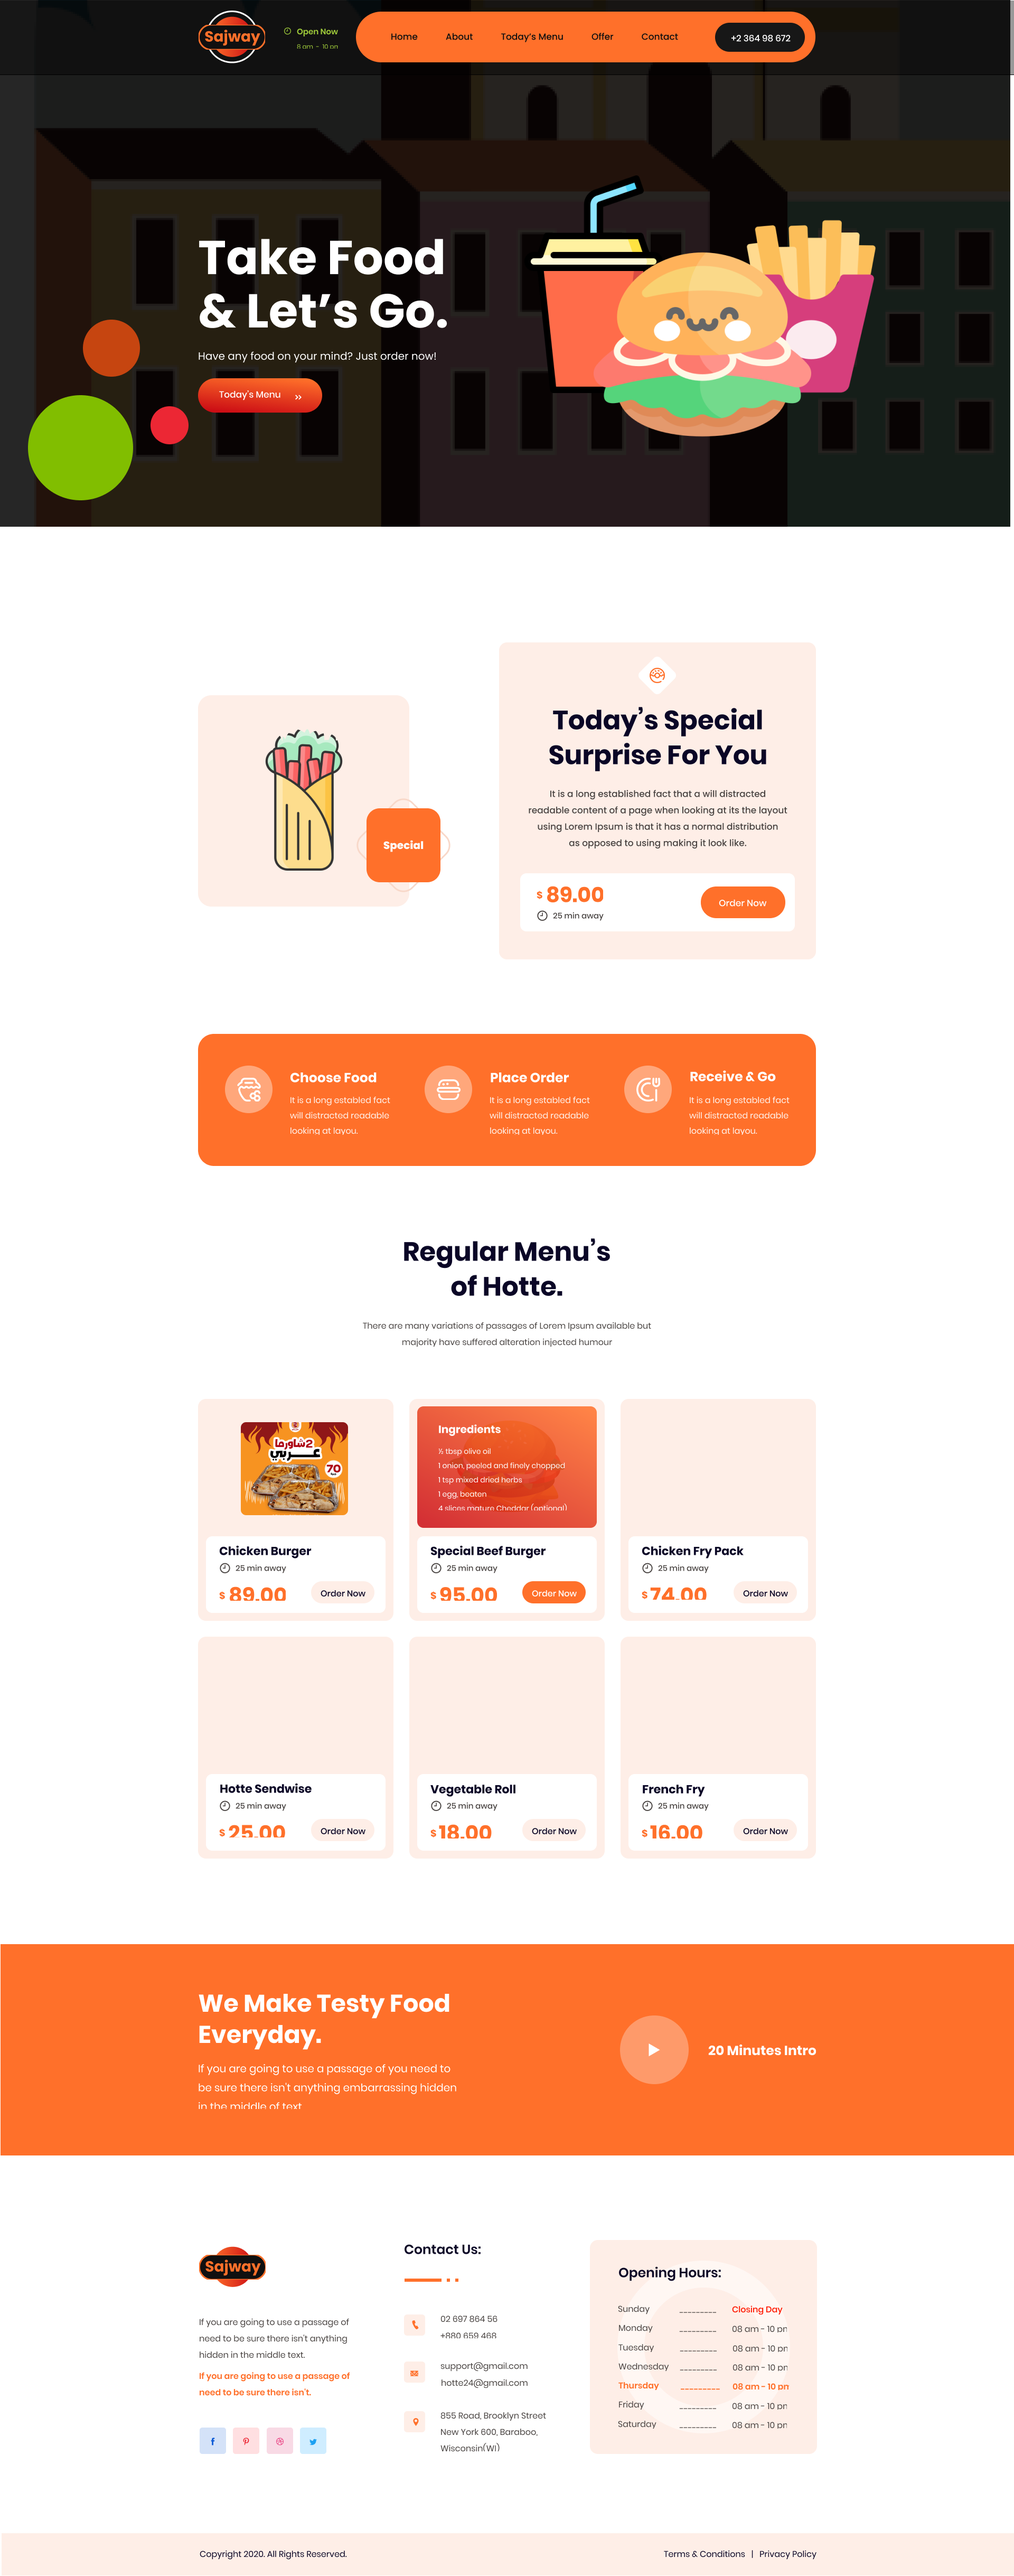
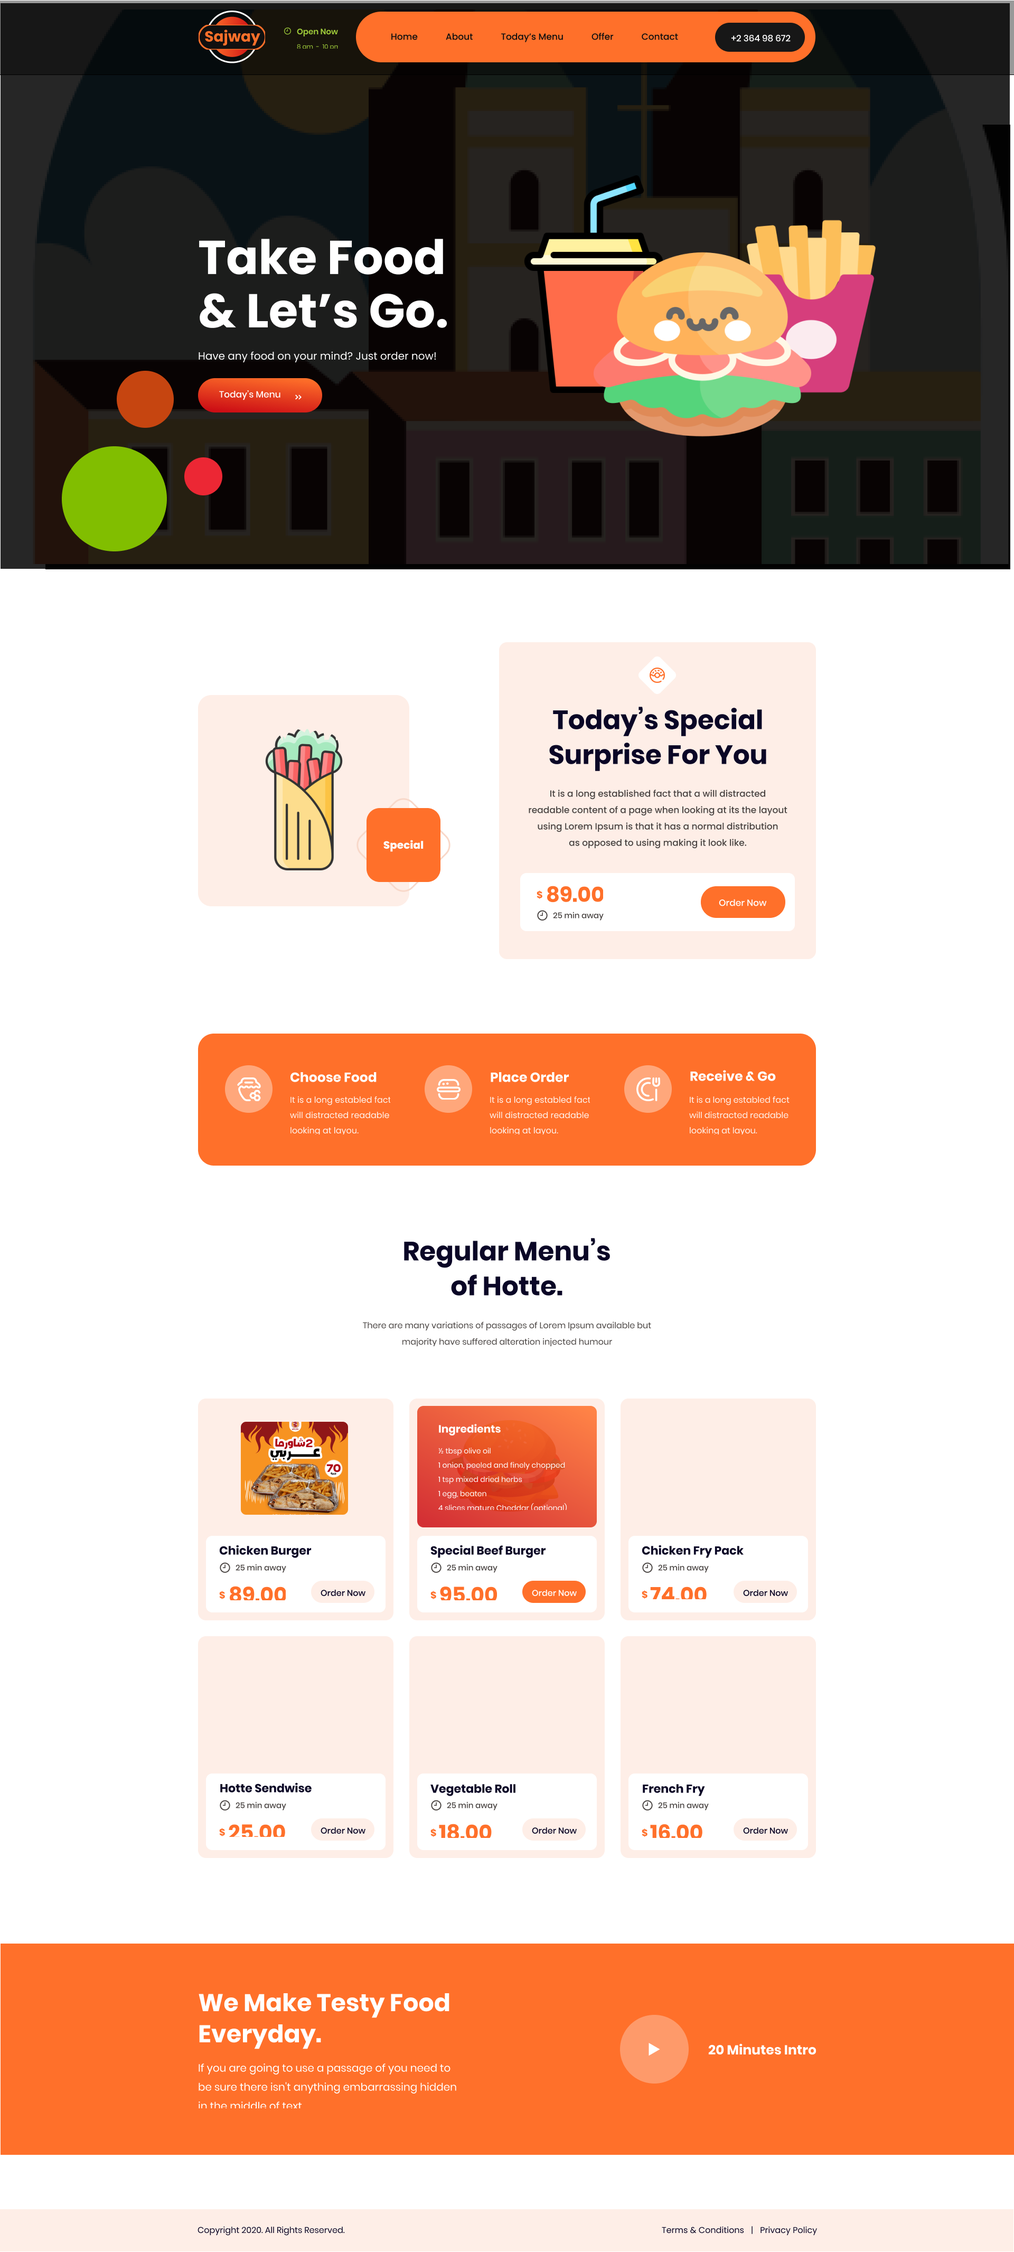
add: Footer and Finishing the Landing Page

diff --git a/src/Components/HomeComponents/Hero.jsx b/src/Components/HomeComponents/Hero.jsx
@@ -8,37 +8,39 @@ import { Link } from 'react-router-dom'
 import HeroIamge from './../../assets/Image.png'
 function Hero () {
   return (
-    <section className='layout h-full w-full'>
-      <div className='container mx-auto grid  xl:grid-cols-2 gap-4 place-items-center text-white w-full h-full'>
-        <div className='ml-4'>
-          <h1 className='font-bold text-6xl mb-2'>
-            Take Food
-            <br /> & Let’s Go.
-          </h1>
-          <p className='text-md mb-2'>
-            Have any food on your mind? Just order now!
-          </p>
+    <div className='home h-screen'>
+      <section className=' layout h-full'>
+        <div className='container mx-auto grid  xl:grid-cols-2 gap-4 place-items-center text-white w-full h-full'>
+          <div className='ml-4'>
+            <h1 className='font-bold text-6xl mb-2'>
+              Take Food
+              <br /> & Let’s Go.
+            </h1>
+            <p className='text-md mb-2'>
+              Have any food on your mind? Just order now!
+            </p>
 
-          <button className='btn gap-2 bg-orange-700 border-none outline-none hover:bg-orange-600 rounded-full px-10'>
-            <Link to='/menus'>
-              <span className='text-xs inline-block'>Today's Menu</span>
-              <img
-                src='https://api.iconify.design/eva:arrowhead-right-outline.svg?color=%23ffffff'
-                alt='ICON'
-                className="inline-block ml-4 w-5 h-5'"
-              />
-            </Link>
-          </button>
+            <button className='btn gap-2 bg-orange-700 border-none outline-none hover:bg-orange-600 rounded-full px-10'>
+              <Link to='/menus'>
+                <span className='text-xs inline-block'>Today's Menu</span>
+                <img
+                  src='https://api.iconify.design/eva:arrowhead-right-outline.svg?color=%23ffffff'
+                  alt='ICON'
+                  className="inline-block ml-4 w-5 h-5'"
+                />
+              </Link>
+            </button>
+          </div>
+          <div className='hidden xl:block'>
+            <img
+              src={HeroIamge}
+              alt='Hero Iamge'
+              className='w-[90%] hover:translate-y-2 ease-in-out duration-300'
+            />
+          </div>
         </div>
-        <div className='hidden xl:block'>
-          <img
-            src={HeroIamge}
-            alt='Hero Iamge'
-            className='w-[90%] hover:translate-y-2 ease-in-out duration-300'
-          />
-        </div>
-      </div>
-    </section>
+      </section>
+    </div>
   )
 }
 

diff --git a/src/Components/HomeComponents/CTA.jsx b/src/Components/HomeComponents/CTA.jsx
@@ -4,13 +4,13 @@ import PlayIcon from './../../assets/playIcon.png'
 
 function CTA () {
   return (
-    <div className='bg-orange-600 phone-6 my-10 py-10 '>
+    <section className='bg-orange-600 phone-6 my-10 py-10 '>
       <div className='container layout mx-auto grid xl:grid-cols-2 place-items-center gap-4 h-full text-white'>
         <div className='flex flex-col'>
           <h1 className='text-3xl font-bold mb-2 text-center xl:text-left'>
             We Make Testy Food <br /> Everyday.
           </h1>
-          <p class='text-md text-center xl:text-left'>
+          <p className='text-md text-center xl:text-left'>
             Lorem ipsum dolor sit amet consectetur adipisicing elit. Dolorum
             eum, laudantium pariatur perferendis consequuntur officiis unde
             error reiciendis iusto nam, similique accusamus totam exercitationem
@@ -20,11 +20,13 @@ function CTA () {
         <div className='flex items-center gap-4'>
           <img src={PlayIcon} alt='ICONS' />
           <p className='text-xl'>
-            <a href='https://www.github.com/abdallahifox' target='_blank'>20 Min Intro .</a>
+            <a href='https://www.github.com/abdallahifox' target='_blank'>
+              20 Min Intro .
+            </a>
           </p>
         </div>
       </div>
-    </div>
+    </section>
   )
 }
 

diff --git a/src/Components/Footer/Footer.jsx b/src/Components/Footer/Footer.jsx
@@ -1,0 +1,27 @@
+import React from 'react'
+
+function Footer () {
+  return (
+    <div className=' pt-10'>
+      <footer className='footer footer-center p-4 bg-orange-300 text-base-content '>
+        <div className='layout container mx-auto flex felx-col xl:flex-row justify-between'>
+          <div>
+            <p>Copyright © 2022 - All right reserved by Abdallah</p>
+          </div>
+          <div>
+            <p>
+              <a href='https://www.github.com/abdallahifox' target='_blank'>
+                Terms & Conditions
+              </a>
+              |               <a href='https://www.github.com/abdallahifox' target='_blank'>
+               Privacy Policy
+              </a>
+            </p>
+          </div>
+        </div>
+      </footer>
+    </div>
+  )
+}
+
+export default Footer

diff --git a/src/App.jsx b/src/App.jsx
@@ -4,16 +4,21 @@ import React from 'react'
 import { Routes, Route } from 'react-router-dom'
 
 //TODO: React Components and Pages
+import Layout from './Components/UI_Helper/Layout'
 import Navigation from './Components/Navigation/Navigation'
+import Footer from './Components/Footer/Footer'
 import Home from './Pages/Home'
 function App () {
   return (
-    <div>
-      <Navigation />
-      <Routes>
-        <Route path='/' element={<Home />} />
-      </Routes>
-    </div>
+    <>
+      <Layout>
+        <Navigation />
+        <Routes>
+          <Route path='/' element={<Home />} />
+        </Routes>
+      </Layout>
+      <Footer />
+    </>
   )
 }
 

diff --git a/src/Pages/Home.jsx b/src/Pages/Home.jsx
@@ -8,13 +8,13 @@ import RegularMenu from './../Components/HomeComponents/RegularMenu'
 import CTA from './../Components/HomeComponents/CTA'
 function Home () {
   return (
-    <div className='home h-screen'>
+    <>
       <Hero />
       <Special />
-      <ChoseFoodSection/>
-      <RegularMenu/>
-      <CTA/>
-    </div>
+      <ChoseFoodSection />
+      <RegularMenu />
+      <CTA />
+    </>
   )
 }
 

diff --git a/src/index.css b/src/index.css
@@ -16,8 +16,7 @@
      background-image: url("./assets/Bg.png");
      background-position: center;
      background-size: cover;
-     background-repeat: no-repeat;
-     
+     background-repeat: no-repeat;   
 }
 
 
